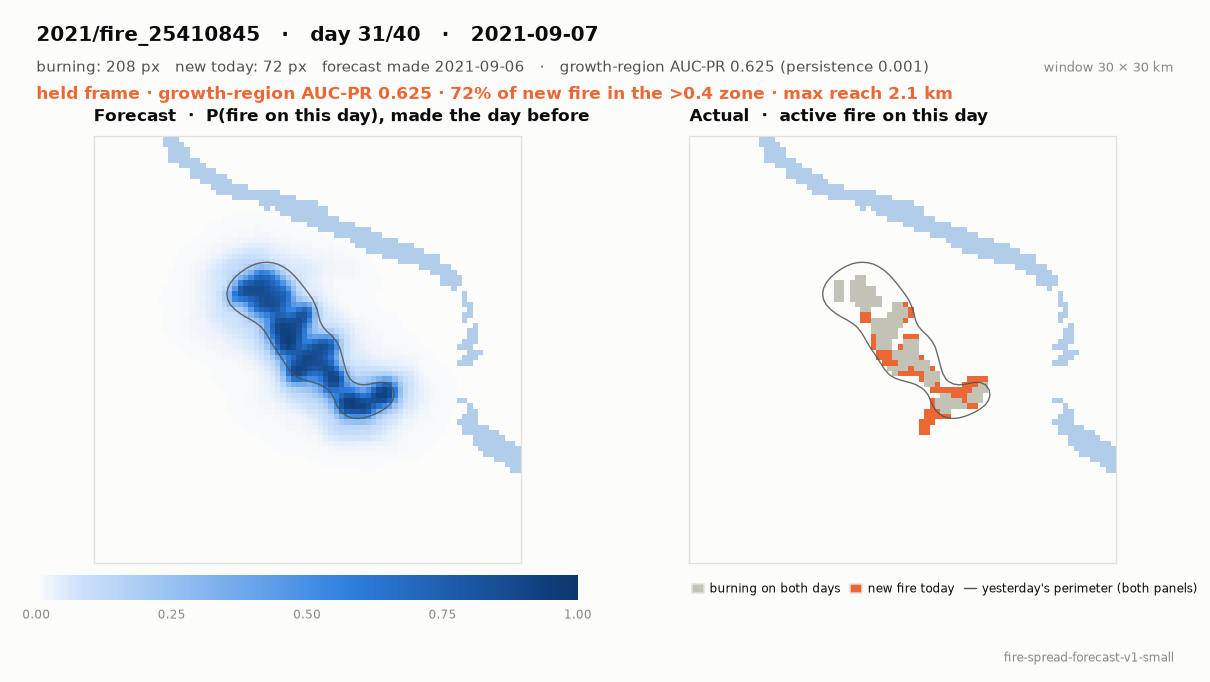
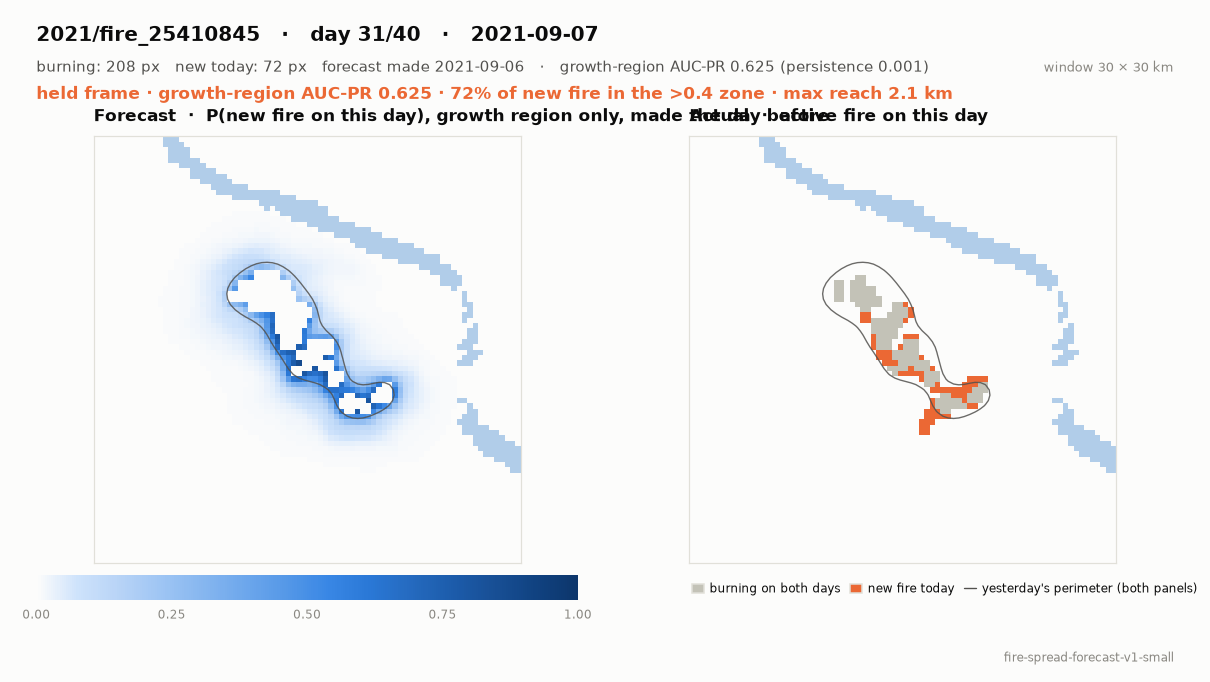
replay: shorter forecast panel title

Changed region(s): [[0.1835, 0.154, 0.6727, 0.1848], [0.1835, 0.4003, 0.3364, 0.6158]]

diff --git a/viz/replay.py b/viz/replay.py
@@ -141,7 +141,7 @@ def render_frame(k, masks, probs, dates, name, placeholder, dpi=110, hold_text=N
     if prev.any():                                   # yesterday's perimeter: outline of the lightly-smoothed mask, so speckled detections read as one front
         outline = _blur(prev, 2.5)
         for ax in (axL, axR): ax.contour(outline, levels=[0.22], colors=[P.INK_2], linewidths=0.9, alpha=0.85)
-    axL.set_title("Forecast  ·  P(new fire on this day), growth region only, made the day before" + ("   [PLACEHOLDER]" if placeholder else ""))
+    axL.set_title("Forecast  ·  P(new fire), growth region only" + ("   [PLACEHOLDER]" if placeholder else ""))
     axR.set_title("Actual  ·  active fire on this day")
     cb = fig.colorbar(im, cax=cax, orientation="horizontal"); cb.outline.set_visible(False)
     cb.set_ticks([0, 0.25, 0.5, 0.75, 1]); cax.tick_params(labelsize=8, length=0, colors=P.MUTED)
